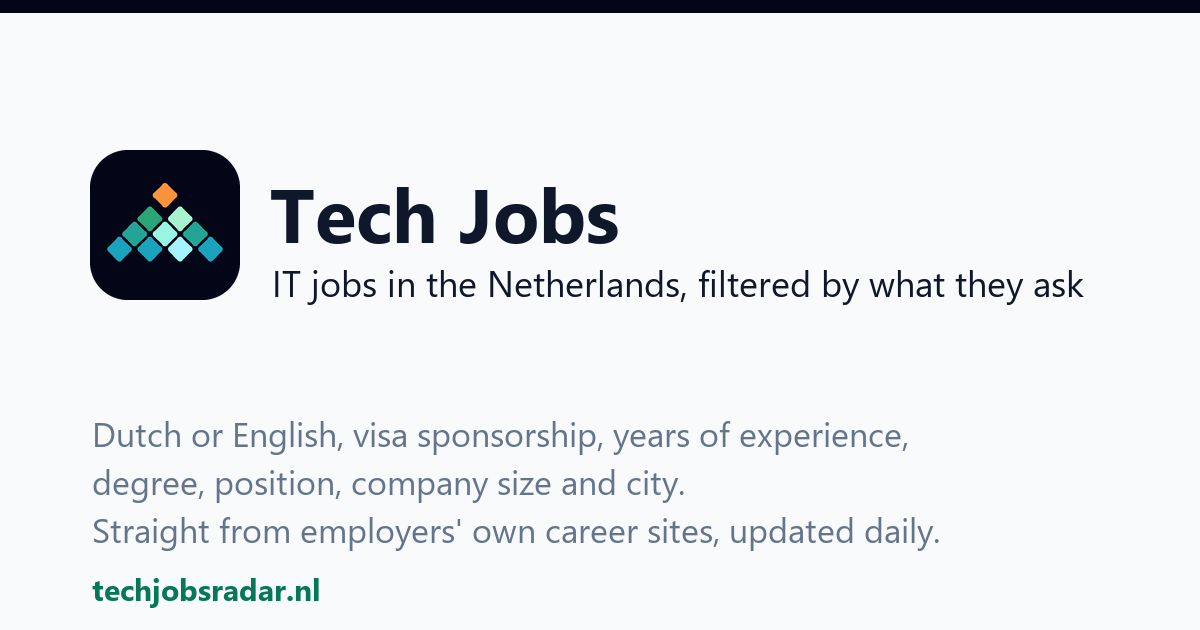
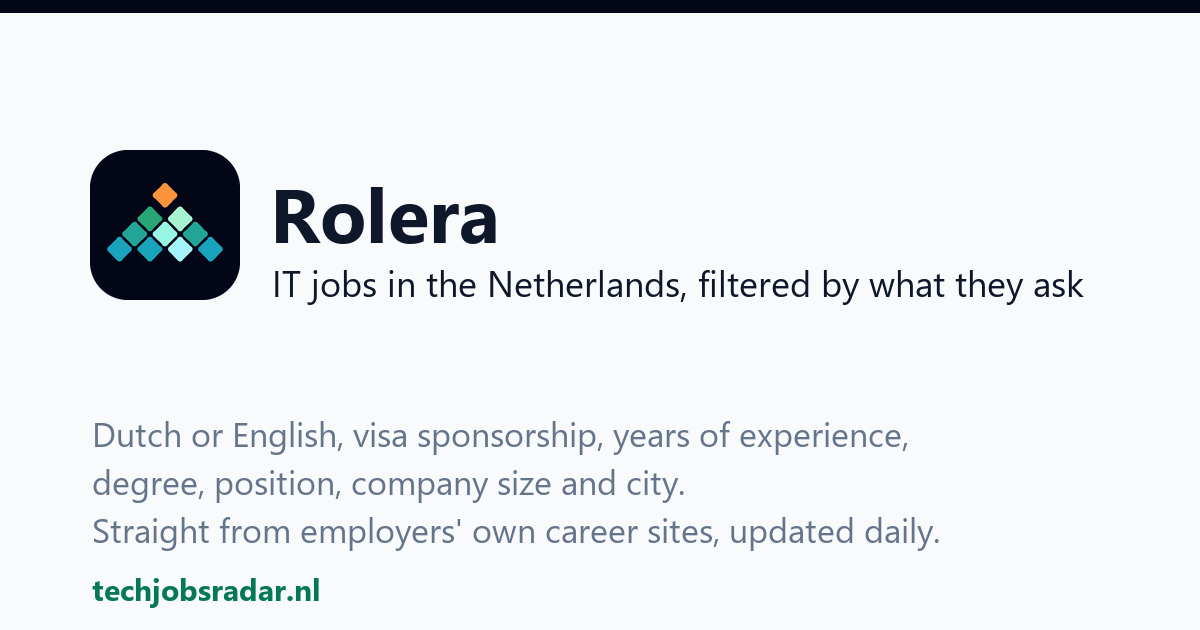
Rename the site to Rolera (techjobsradar.nl stays; Tech Jobs kept as an alias)

Changed region(s): [[0.2158, 0.3016, 0.5242, 0.3921]]

diff --git a/deploy/helm/radar/files/maintenance.html b/deploy/helm/radar/files/maintenance.html
@@ -5,7 +5,7 @@
 <meta name="viewport" content="width=device-width, initial-scale=1">
 <meta name="robots" content="noindex">
 <meta http-equiv="refresh" content="60">
-<title>Tech Jobs is being updated</title>
+<title>Rolera is being updated</title>
 <style>
   :root { --bg: #f8fafc; --card: #ffffff; --ink: #0f172a; --muted: #64748b; --line: #e2e8f0; --accent: #047857; --on-accent: #ffffff; --logo-edge: #020617; }
   @media (prefers-color-scheme: dark) {
@@ -31,7 +31,7 @@
 <main>
   <div class="brand">
     <svg class="logo" aria-hidden="true" viewBox="0 0 32 32"><rect x=".5" y=".5" width="31" height="31" rx="8" fill="#020617" stroke="var(--logo-edge, #020617)"/><g stroke-width="1.3" stroke-linejoin="round"><path d="M6.29 19.20L8.24 21.15L6.29 23.10L4.34 21.15Z" fill="#1aa3bc" stroke="#1aa3bc"/><path d="M12.76 19.20L14.71 21.15L12.76 23.10L10.81 21.15Z" fill="#1aa3bc" stroke="#1aa3bc"/><path d="M19.24 19.20L21.19 21.15L19.24 23.10L17.29 21.15Z" fill="#a5f3fc" stroke="#a5f3fc"/><path d="M25.71 19.20L27.66 21.15L25.71 23.10L23.76 21.15Z" fill="#1aa3bc" stroke="#1aa3bc"/><path d="M9.53 15.97L11.48 17.92L9.53 19.87L7.58 17.92Z" fill="#22a596" stroke="#22a596"/><path d="M16.0 15.97L17.95 17.92L16.0 19.87L14.05 17.92Z" fill="#99f6e4" stroke="#99f6e4"/><path d="M22.47 15.97L24.42 17.92L22.47 19.87L20.52 17.92Z" fill="#22a596" stroke="#22a596"/><path d="M12.76 12.73L14.71 14.68L12.76 16.63L10.81 14.68Z" fill="#28a676" stroke="#28a676"/><path d="M19.24 12.73L21.19 14.68L19.24 16.63L17.29 14.68Z" fill="#a7f3d0" stroke="#a7f3d0"/><path d="M16.0 7.70L17.95 9.65L16.0 11.60L14.05 9.65Z" fill="#fb923c" stroke="#fb923c"/></g></svg>
-    Tech Jobs
+    Rolera
   </div>
   <div lang="en">
     <h1>Being updated</h1>
@@ -52,7 +52,7 @@
       lang = /^\/nl(\/|$)/.test(location.pathname) || (navigator.language || "").toLowerCase().indexOf("nl") === 0 ? "nl" : "en";
     }
     document.documentElement.lang = lang;
-    if (lang === "nl") document.title = "Tech Jobs wordt bijgewerkt";
+    if (lang === "nl") document.title = "Rolera wordt bijgewerkt";
   })();
   // reload as soon as the site answers again
   (function check() {

diff --git a/web/index.html b/web/index.html
@@ -20,7 +20,7 @@
 <link rel="icon" href="/favicon.ico?v=6" sizes="48x48">
 <link rel="apple-touch-icon" href="/static/apple-touch-icon.png?v=6">
 <meta property="og:site_name" content="{{SITE_NAME}}">
-<meta property="og:image" content="{{SITE_URL}}/static/og-card.png?v=6">
+<meta property="og:image" content="{{SITE_URL}}/static/og-card.png?v=7">
 <meta property="og:image:width" content="1200">
 <meta property="og:image:height" content="630">
 <meta name="twitter:card" content="summary_large_image">
@@ -305,6 +305,6 @@
   <p class="foot-bottom"><a href="{{PRIVACY_PATH}}" data-i18n="privacy">Privacy</a> · <a href="{{FEEDBACK_PATH}}" data-i18n="feedback">Feedback</a>{{SOURCE_LINK}}</p>
  </div>
 </footer>
-<script src="/static/app.js?v=126"></script>
+<script src="/static/app.js?v=127"></script>
 </body>
 </html>

diff --git a/web/app.js b/web/app.js
@@ -604,7 +604,7 @@
       ...(o.new ? [[fmt(o.new.recent), t("kpi.week"), o.new.before != null ? t("kpi.week.vs", { m: fmt(o.new.before) }) : "", t("kpi.week.title")]] : []),
       [last, t("kpi.crawl")],
     ].map(([v, l, sub, title]) => `<div class="kpi"${title ? ` title="${esc(title)}"` : ""}><b>${esc(v)}</b><span>${esc(l)}</span>${sub ? `<span class="kpi-sub">${esc(sub)}</span>` : ""}</div>`).join("");
-    document.title = t("title");
+    document.title = `${t("title")} | ${$("#brand").title}`;
     $("#hero-sub").textContent = t("hero.sub", { n: fmt(o.live_tech_postings), c: fmt(o.companies), d: last });
   }
 

diff --git a/web/companies.html b/web/companies.html
@@ -10,7 +10,7 @@
 <link rel="icon" href="/favicon.ico?v=6" sizes="48x48">
 <link rel="apple-touch-icon" href="/static/apple-touch-icon.png?v=6">
 <meta property="og:site_name" content="{{SITE_NAME}}">
-<meta property="og:image" content="{{SITE_URL}}/static/og-card.png?v=6">
+<meta property="og:image" content="{{SITE_URL}}/static/og-card.png?v=7">
 <meta property="og:image:width" content="1200">
 <meta property="og:image:height" content="630">
 <meta name="twitter:card" content="summary_large_image">

diff --git a/web/company.html b/web/company.html
@@ -14,7 +14,7 @@
 <link rel="icon" href="/favicon.ico?v=6" sizes="48x48">
 <link rel="apple-touch-icon" href="/static/apple-touch-icon.png?v=6">
 <meta property="og:site_name" content="{{SITE_NAME}}">
-<meta property="og:image" content="{{SITE_URL}}/static/og-card.png?v=6">
+<meta property="og:image" content="{{SITE_URL}}/static/og-card.png?v=7">
 <meta property="og:image:width" content="1200">
 <meta property="og:image:height" content="630">
 <meta name="twitter:card" content="summary_large_image">

diff --git a/web/job.html b/web/job.html
@@ -18,7 +18,7 @@
 <link rel="icon" href="/favicon.ico?v=6" sizes="48x48">
 <link rel="apple-touch-icon" href="/static/apple-touch-icon.png?v=6">
 <meta property="og:site_name" content="{{SITE_NAME}}">
-<meta property="og:image" content="{{SITE_URL}}/static/og-card.png?v=6">
+<meta property="og:image" content="{{SITE_URL}}/static/og-card.png?v=7">
 <meta property="og:image:width" content="1200">
 <meta property="og:image:height" content="630">
 <meta name="twitter:card" content="summary_large_image">

diff --git a/web/landing.html b/web/landing.html
@@ -19,7 +19,7 @@
 <link rel="icon" href="/favicon.ico?v=6" sizes="48x48">
 <link rel="apple-touch-icon" href="/static/apple-touch-icon.png?v=6">
 <meta property="og:site_name" content="{{SITE_NAME}}">
-<meta property="og:image" content="{{SITE_URL}}/static/og-card.png?v=6">
+<meta property="og:image" content="{{SITE_URL}}/static/og-card.png?v=7">
 <meta property="og:image:width" content="1200">
 <meta property="og:image:height" content="630">
 <meta name="twitter:card" content="summary_large_image">

diff --git a/web/report.html b/web/report.html
@@ -17,7 +17,7 @@
 <meta property="og:url" content="{{SITE_URL}}{{SELF_PATH}}">
 <meta property="og:type" content="article">
 <meta property="og:site_name" content="{{SITE_NAME}}">
-<meta property="og:image" content="{{SITE_URL}}/static/og-card.png?v=6">
+<meta property="og:image" content="{{SITE_URL}}/static/og-card.png?v=7">
 <meta property="og:image:width" content="1200">
 <meta property="og:image:height" content="630">
 <meta name="twitter:card" content="summary_large_image">

diff --git a/radar/config.py b/radar/config.py
@@ -26,8 +26,8 @@ class Settings(BaseSettings):
     cors_origins: str = "*"  # comma-separated; set to the public domain in production
     # Branding and search: the site name goes into the title, headings and structured data; the aliases are
     # phrases people may search for ("TechJobsNL"); the URL is the canonical public address.
-    site_name: str = "Tech Jobs"
-    site_aliases: str = ("Tech Jobs Radar, TechJobsRadar, techjobsradar.nl, TechJobsNL, Tech Jobs NL, ICT vacatures, "
+    site_name: str = "Rolera"
+    site_aliases: str = ("Tech Jobs, Tech Jobs Radar, TechJobsRadar, techjobsradar.nl, TechJobsNL, Tech Jobs NL, ICT vacatures, "
                          "IT vacatures, tech jobs Netherlands")
     site_url: str = "https://techjobsradar.nl"
     # Google Search Console verification token (the content of its <meta name="google-site-verification">)
@@ -64,7 +64,7 @@ class Settings(BaseSettings):
     # accounts (radar/auth.py): the login link is e-mailed. "console" logs it instead of sending (local use);
     # "smtp" sends through RADAR_SMTP_HOST, e.g. Amazon SES's SMTP endpoint
     mail_backend: str = "console"
-    mail_from: str = "Tech Jobs <login@techjobsradar.nl>"
+    mail_from: str = "Rolera <login@techjobsradar.nl>"
     # where alerts go (crawling stalled, nightly quality check failed); empty = only logged
     alert_email: str | None = "contact@techjobsradar.nl"
     smtp_host: str = "localhost"

diff --git a/radar/api.py b/radar/api.py
@@ -719,9 +719,10 @@ def _render_index(session: Session | None = None, lang: str = "en") -> str:
                 .replace("{{HTML_LANG}}", lang)
                 .replace("{{HOME_PATH}}", "/nl/" if lang == "nl" else "/")
                 .replace("{{FEED_PATH}}", "/nl/feed.xml" if lang == "nl" else "/feed.xml")
+                # the header's name, then for search engines and screen readers what the site is
                 .replace("{{H1_SUFFIX}}",
-                         " in Nederland" if lang == "nl" else " in the Netherlands")
-                .replace("{{PAGE_TITLE}}", title)
+                         ": techvacatures in Nederland" if lang == "nl" else ": tech jobs in the Netherlands")
+                .replace("{{PAGE_TITLE}}", seo.doc_title(title))
                 .replace("{{META_DESCRIPTION}}", desc)
                 .replace("{{VERIFY}}", seo.verification_meta())
                 .replace("{{SOURCE_LINK}}", _source_link(lang))

diff --git a/tests/test_feeds.py b/tests/test_feeds.py
@@ -24,7 +24,7 @@ def test_feed_lists_the_newest_matching_jobs_as_rss(fresh_db):
     assert r.status_code == 200 and r.headers["content-type"].startswith("application/rss+xml")
     channel = ElementTree.fromstring(r.text).find("channel")
     items = channel.findall("item")
-    assert channel.findtext("title") == "Tech Jobs: new jobs (Utrecht)"
+    assert channel.findtext("title") == "Rolera: new jobs (Utrecht)"
     assert [i.findtext("title") for i in items] == ["Data Engineer · Acme"] and "/job/" in items[0].findtext("link")
     nl = ElementTree.fromstring(client.get("/nl/feed.xml").text).find("channel")
     assert len(nl.findall("item")) == 2 and "/nl/vacature/" in nl.find("item").findtext("link")

diff --git a/tests/test_crawler_and_api.py b/tests/test_crawler_and_api.py
@@ -114,7 +114,7 @@ def test_api_endpoints(fresh_db):
     client = TestClient(app)
     assert client.get("/healthz").json() == {"ok": True, "build": "dev"}
     home = client.get("/").text
-    assert "{{" not in home and '<h1>Tech Jobs<span class="sr-only"> in the Netherlands</span></h1>' in home and "TechJobsNL" in home
+    assert "{{" not in home and '<h1>Rolera<span class="sr-only">: tech jobs in the Netherlands</span></h1>' in home and "TechJobsNL" in home
     assert '"@type": "WebSite"' in home
     assert "Sitemap:" in client.get("/robots.txt").text and "<urlset" in client.get("/sitemap.xml").text
     ov = client.get("/api/overview").json()
